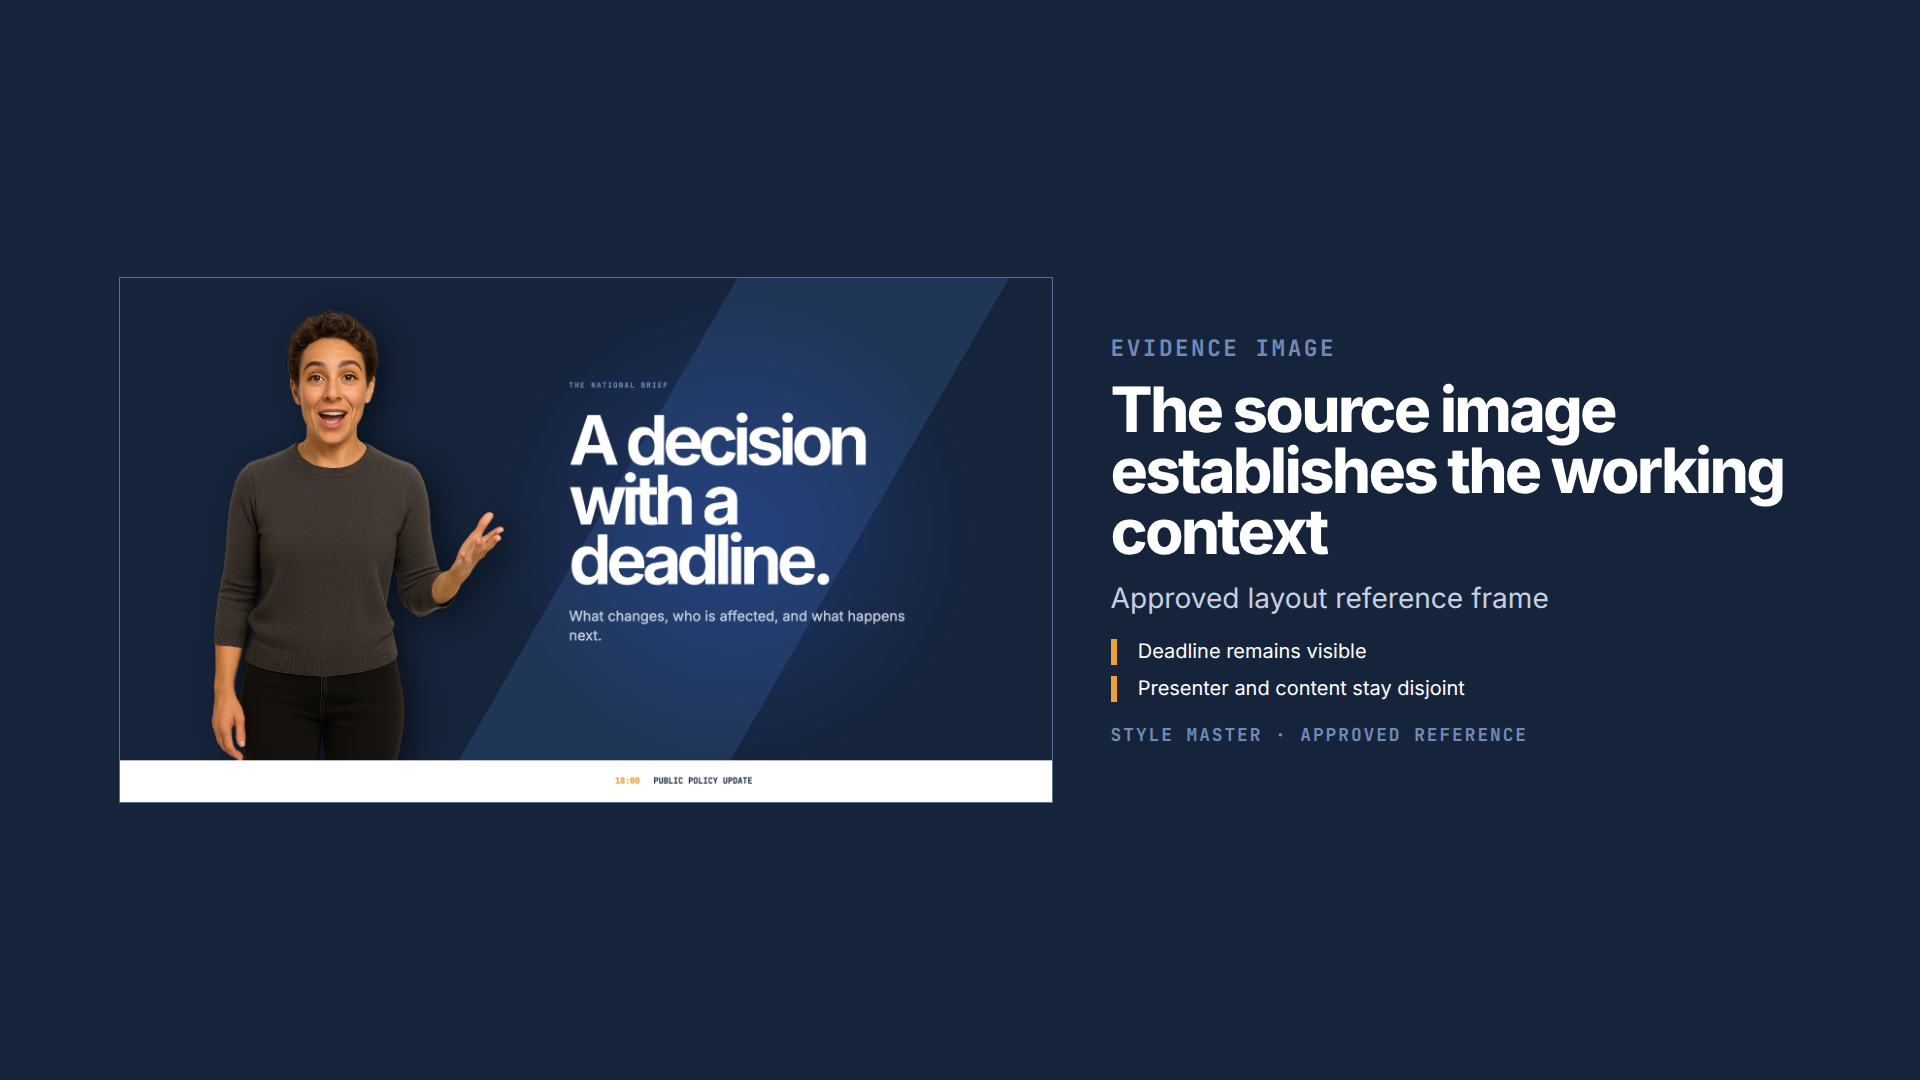
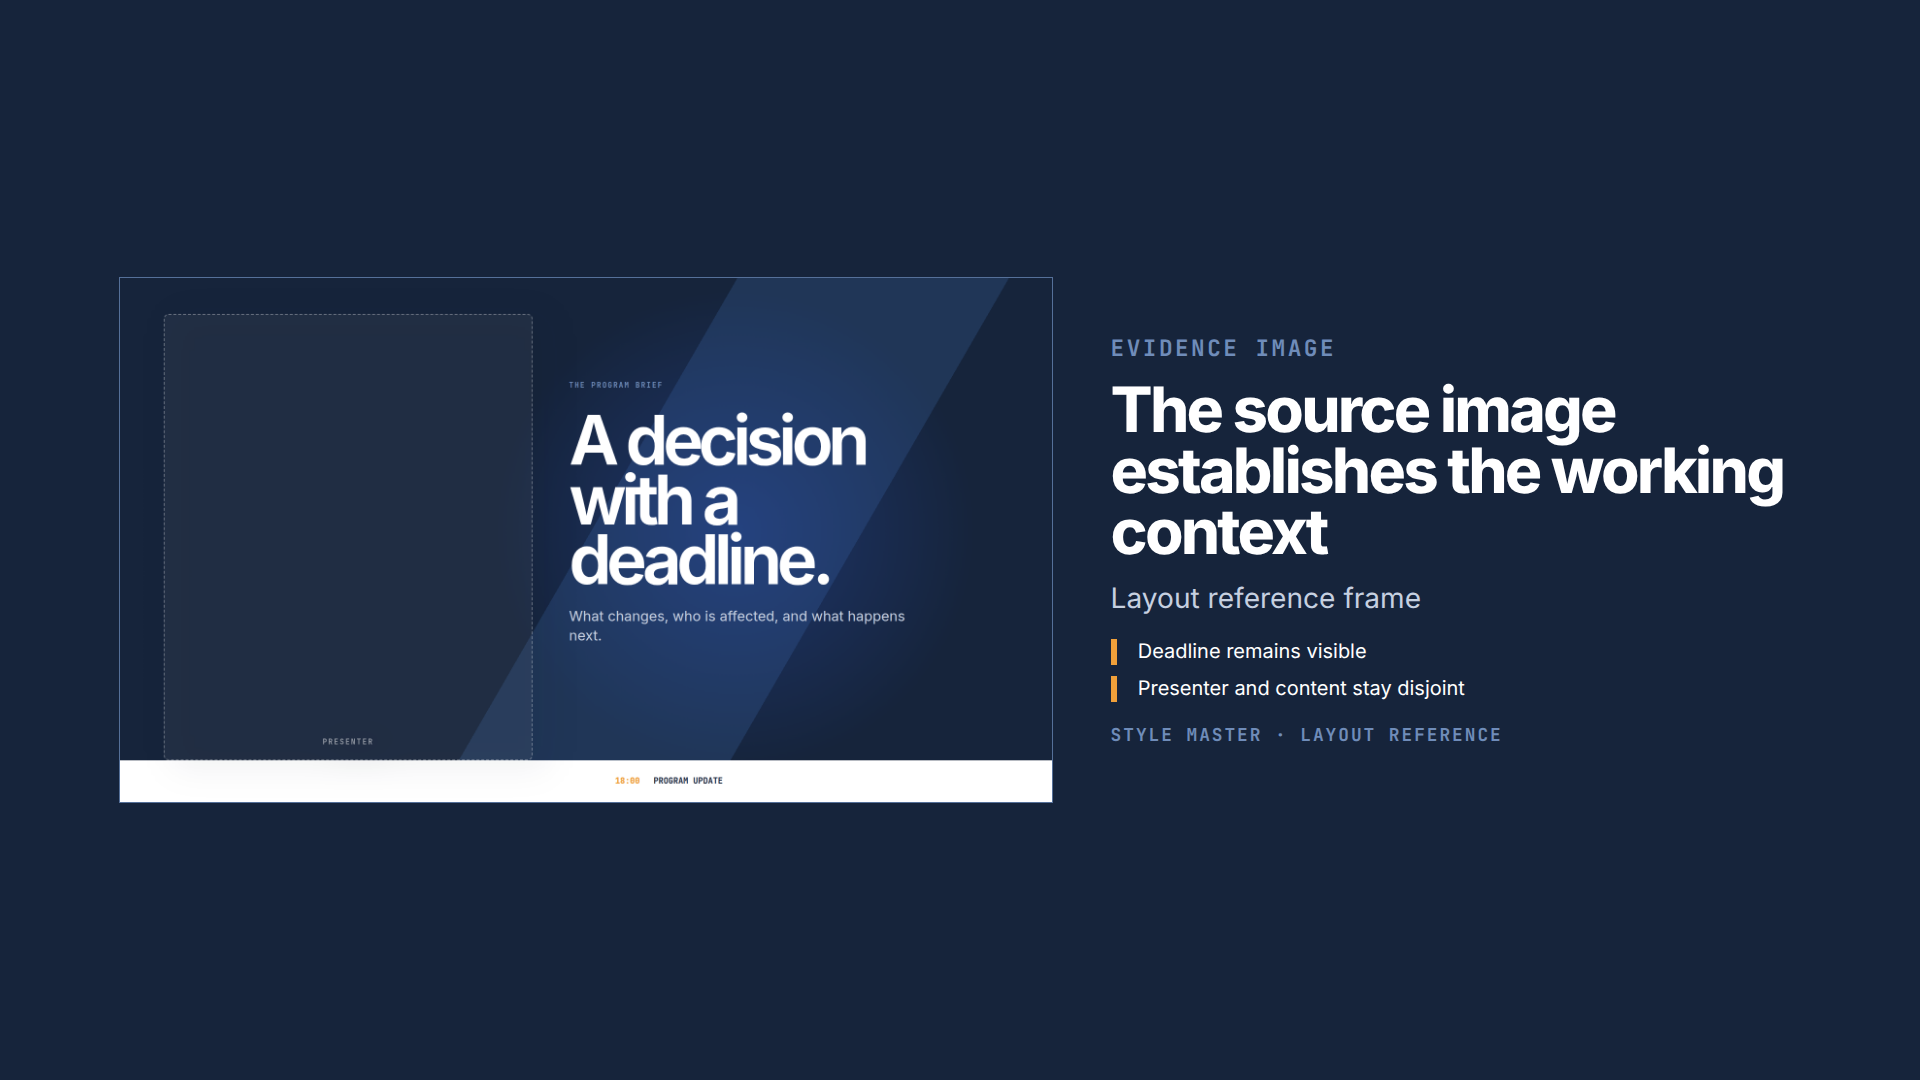
Re-render the seven layout proofs that the neutralisation left stale
Three proofs still showed the copy I had already changed in their source —
"POLICY TEAM", "Approve policy", "The policy establishes" — because the
sample-copy edit never reached the rendered PNGs.

Four more were stale for a different reason: media--media-left,
media--media-right, media--evidence-hero and media--evidence-grid embed
assets/style-master-a.png and -b.png as their sample media, so replacing
those two masters with neutral re-renders left every proof that cites them
showing the old governmental frames and the static presenter that was
deleted from the package.

media--media-left and media--evidence-grid also carried the same
provenance wording the archetype cards did ("Approved layout reference
frame", "STYLE MASTER · APPROVED REFERENCE"); that is now plain.

Rendered through the HyperFrames project at each scene's settled state
(6N+5.6s of the 240s timeline) rather than a direct screenshot, which
produces a blank frame because the layouts are hydrated at runtime.

contact-sheet.jpg carried the same seven stale cells. Patched in place at
the measured cell geometry so the other thirty-three cells are untouched.

diff --git a/video-composition/assets/layouts/adapters/media--evidence-grid.html b/video-composition/assets/layouts/adapters/media--evidence-grid.html
@@ -1,6 +1,6 @@
 <!doctype html>
 <!-- Content-ready content adapter. Official HyperFrames behavior origins: screen-flow-carousel + grid-card-assemble. -->
-<html lang="en" data-composition-id="vc-adapter-media--evidence-grid" data-composition-duration="8" data-vc-content-ready="true" data-registry-origin="screen-flow-carousel + grid-card-assemble" data-composition-variables='[{"id": "kicker", "type": "string", "role": "content", "label": "Kicker", "description": "", "default": "EVIDENCE SET"}, {"id": "title", "type": "string", "role": "content", "label": "Evidence statement", "description": "", "default": "Three records support the same conclusion"}, {"id": "summary", "type": "string", "role": "content", "label": "Interpretation", "description": "", "default": "Each item has a visible role, source label and source-backed image."}, {"id": "image_1", "type": "string", "role": "content", "label": "Primary image", "description": "", "default": "assets/video-composition/media/style-master-a.png"}, {"id": "caption_1", "type": "string", "role": "content", "label": "Primary caption", "description": "", "default": "Approved reference frame"}, {"id": "image_2", "type": "string", "role": "content", "label": "Second image", "description": "", "default": "assets/video-composition/media/style-master-b.png"}, {"id": "caption_2", "type": "string", "role": "content", "label": "Second caption", "description": "", "default": "Decision and deadline structure"}, {"id": "image_3", "type": "string", "role": "content", "label": "Third image", "description": "", "default": "assets/video-composition/media/style-master-b.png"}, {"id": "caption_3", "type": "string", "role": "content", "label": "Third caption", "description": "", "default": "Bundled layout reference"}, {"id": "source", "type": "string", "role": "content", "label": "Source", "description": "", "default": "EVIDENCE SET · THREE ITEMS"}]'>
+<html lang="en" data-composition-id="vc-adapter-media--evidence-grid" data-composition-duration="8" data-vc-content-ready="true" data-registry-origin="screen-flow-carousel + grid-card-assemble" data-composition-variables='[{"id": "kicker", "type": "string", "role": "content", "label": "Kicker", "description": "", "default": "EVIDENCE SET"}, {"id": "title", "type": "string", "role": "content", "label": "Evidence statement", "description": "", "default": "Three records support the same conclusion"}, {"id": "summary", "type": "string", "role": "content", "label": "Interpretation", "description": "", "default": "Each item has a visible role, source label and source-backed image."}, {"id": "image_1", "type": "string", "role": "content", "label": "Primary image", "description": "", "default": "assets/video-composition/media/style-master-a.png"}, {"id": "caption_1", "type": "string", "role": "content", "label": "Primary caption", "description": "", "default": "Reference frame"}, {"id": "image_2", "type": "string", "role": "content", "label": "Second image", "description": "", "default": "assets/video-composition/media/style-master-b.png"}, {"id": "caption_2", "type": "string", "role": "content", "label": "Second caption", "description": "", "default": "Decision and deadline structure"}, {"id": "image_3", "type": "string", "role": "content", "label": "Third image", "description": "", "default": "assets/video-composition/media/style-master-b.png"}, {"id": "caption_3", "type": "string", "role": "content", "label": "Third caption", "description": "", "default": "Bundled layout reference"}, {"id": "source", "type": "string", "role": "content", "label": "Source", "description": "", "default": "EVIDENCE SET · THREE ITEMS"}]'>
   <head><meta charset="UTF-8" /></head>
   <body>
     <template>

diff --git a/video-composition/assets/layouts/adapters/media--media-left.html b/video-composition/assets/layouts/adapters/media--media-left.html
@@ -1,6 +1,6 @@
 <!doctype html>
 <!-- Content-ready content adapter. Official HyperFrames behavior origins: particle-image-reveal + line-by-line-slide. -->
-<html lang="en" data-composition-id="vc-adapter-media--media-left" data-composition-duration="4" data-vc-content-ready="true" data-registry-origin="particle-image-reveal + line-by-line-slide" data-composition-variables='[{"id": "kicker", "type": "string", "role": "content", "label": "Kicker", "description": "", "default": "EVIDENCE IMAGE"}, {"id": "title", "type": "string", "role": "content", "label": "Headline", "description": "", "default": "The source image establishes the working context"}, {"id": "summary", "type": "string", "role": "content", "label": "Caption", "description": "", "default": "Approved layout reference frame"}, {"id": "image", "type": "string", "role": "content", "label": "Image path", "description": "", "default": "assets/video-composition/media/style-master-a.png"}, {"id": "callouts", "type": "string", "role": "content", "label": "Callouts", "description": "", "default": "Deadline remains visible;Presenter and content stay disjoint"}, {"id": "source", "type": "string", "role": "content", "label": "Source", "description": "", "default": "STYLE MASTER · APPROVED REFERENCE"}]'>
+<html lang="en" data-composition-id="vc-adapter-media--media-left" data-composition-duration="4" data-vc-content-ready="true" data-registry-origin="particle-image-reveal + line-by-line-slide" data-composition-variables='[{"id": "kicker", "type": "string", "role": "content", "label": "Kicker", "description": "", "default": "EVIDENCE IMAGE"}, {"id": "title", "type": "string", "role": "content", "label": "Headline", "description": "", "default": "The source image establishes the working context"}, {"id": "summary", "type": "string", "role": "content", "label": "Caption", "description": "", "default": "Layout reference frame"}, {"id": "image", "type": "string", "role": "content", "label": "Image path", "description": "", "default": "assets/video-composition/media/style-master-a.png"}, {"id": "callouts", "type": "string", "role": "content", "label": "Callouts", "description": "", "default": "Deadline remains visible;Presenter and content stay disjoint"}, {"id": "source", "type": "string", "role": "content", "label": "Source", "description": "", "default": "STYLE MASTER · LAYOUT REFERENCE"}]'>
   <head><meta charset="UTF-8" /></head>
   <body>
     <template>

diff --git a/video-composition/assets/layouts/source/media--evidence-grid.html b/video-composition/assets/layouts/source/media--evidence-grid.html
@@ -28,7 +28,7 @@
               data-registry-item="screen-flow-carousel + grid-card-assemble"
               data-composition-id="vc-adapter-media--evidence-grid"
               data-composition-src="compositions/vc-adapters/media--evidence-grid.html"
-              data-variable-values='{"kicker": "EVIDENCE SET", "title": "Three records support the same conclusion", "summary": "Each item has a visible role, source label and source-backed image.", "image_1": "assets/video-composition/media/style-master-a.png", "caption_1": "Approved reference frame", "image_2": "assets/video-composition/media/style-master-b.png", "caption_2": "Decision and deadline structure", "image_3": "assets/video-composition/media/style-master-b.png", "caption_3": "Bundled layout reference", "source": "EVIDENCE SET · THREE ITEMS"}'
+              data-variable-values='{"kicker": "EVIDENCE SET", "title": "Three records support the same conclusion", "summary": "Each item has a visible role, source label and source-backed image.", "image_1": "assets/video-composition/media/style-master-a.png", "caption_1": "Reference frame", "image_2": "assets/video-composition/media/style-master-b.png", "caption_2": "Decision and deadline structure", "image_3": "assets/video-composition/media/style-master-b.png", "caption_3": "Bundled layout reference", "source": "EVIDENCE SET · THREE ITEMS"}'
               data-start="0"
               data-duration="8"
               data-track-index="1"

diff --git a/video-composition/assets/layouts/source/media--media-left.html b/video-composition/assets/layouts/source/media--media-left.html
@@ -28,7 +28,7 @@
               data-registry-item="particle-image-reveal + line-by-line-slide"
               data-composition-id="vc-adapter-media--media-left"
               data-composition-src="compositions/vc-adapters/media--media-left.html"
-              data-variable-values='{"kicker": "EVIDENCE IMAGE", "title": "The source image establishes the working context", "summary": "Approved layout reference frame", "image": "assets/video-composition/media/style-master-a.png", "callouts": "Deadline remains visible;Presenter and content stay disjoint", "source": "STYLE MASTER · APPROVED REFERENCE"}'
+              data-variable-values='{"kicker": "EVIDENCE IMAGE", "title": "The source image establishes the working context", "summary": "Layout reference frame", "image": "assets/video-composition/media/style-master-a.png", "callouts": "Deadline remains visible;Presenter and content stay disjoint", "source": "STYLE MASTER · LAYOUT REFERENCE"}'
               data-start="0"
               data-duration="4"
               data-track-index="1"
